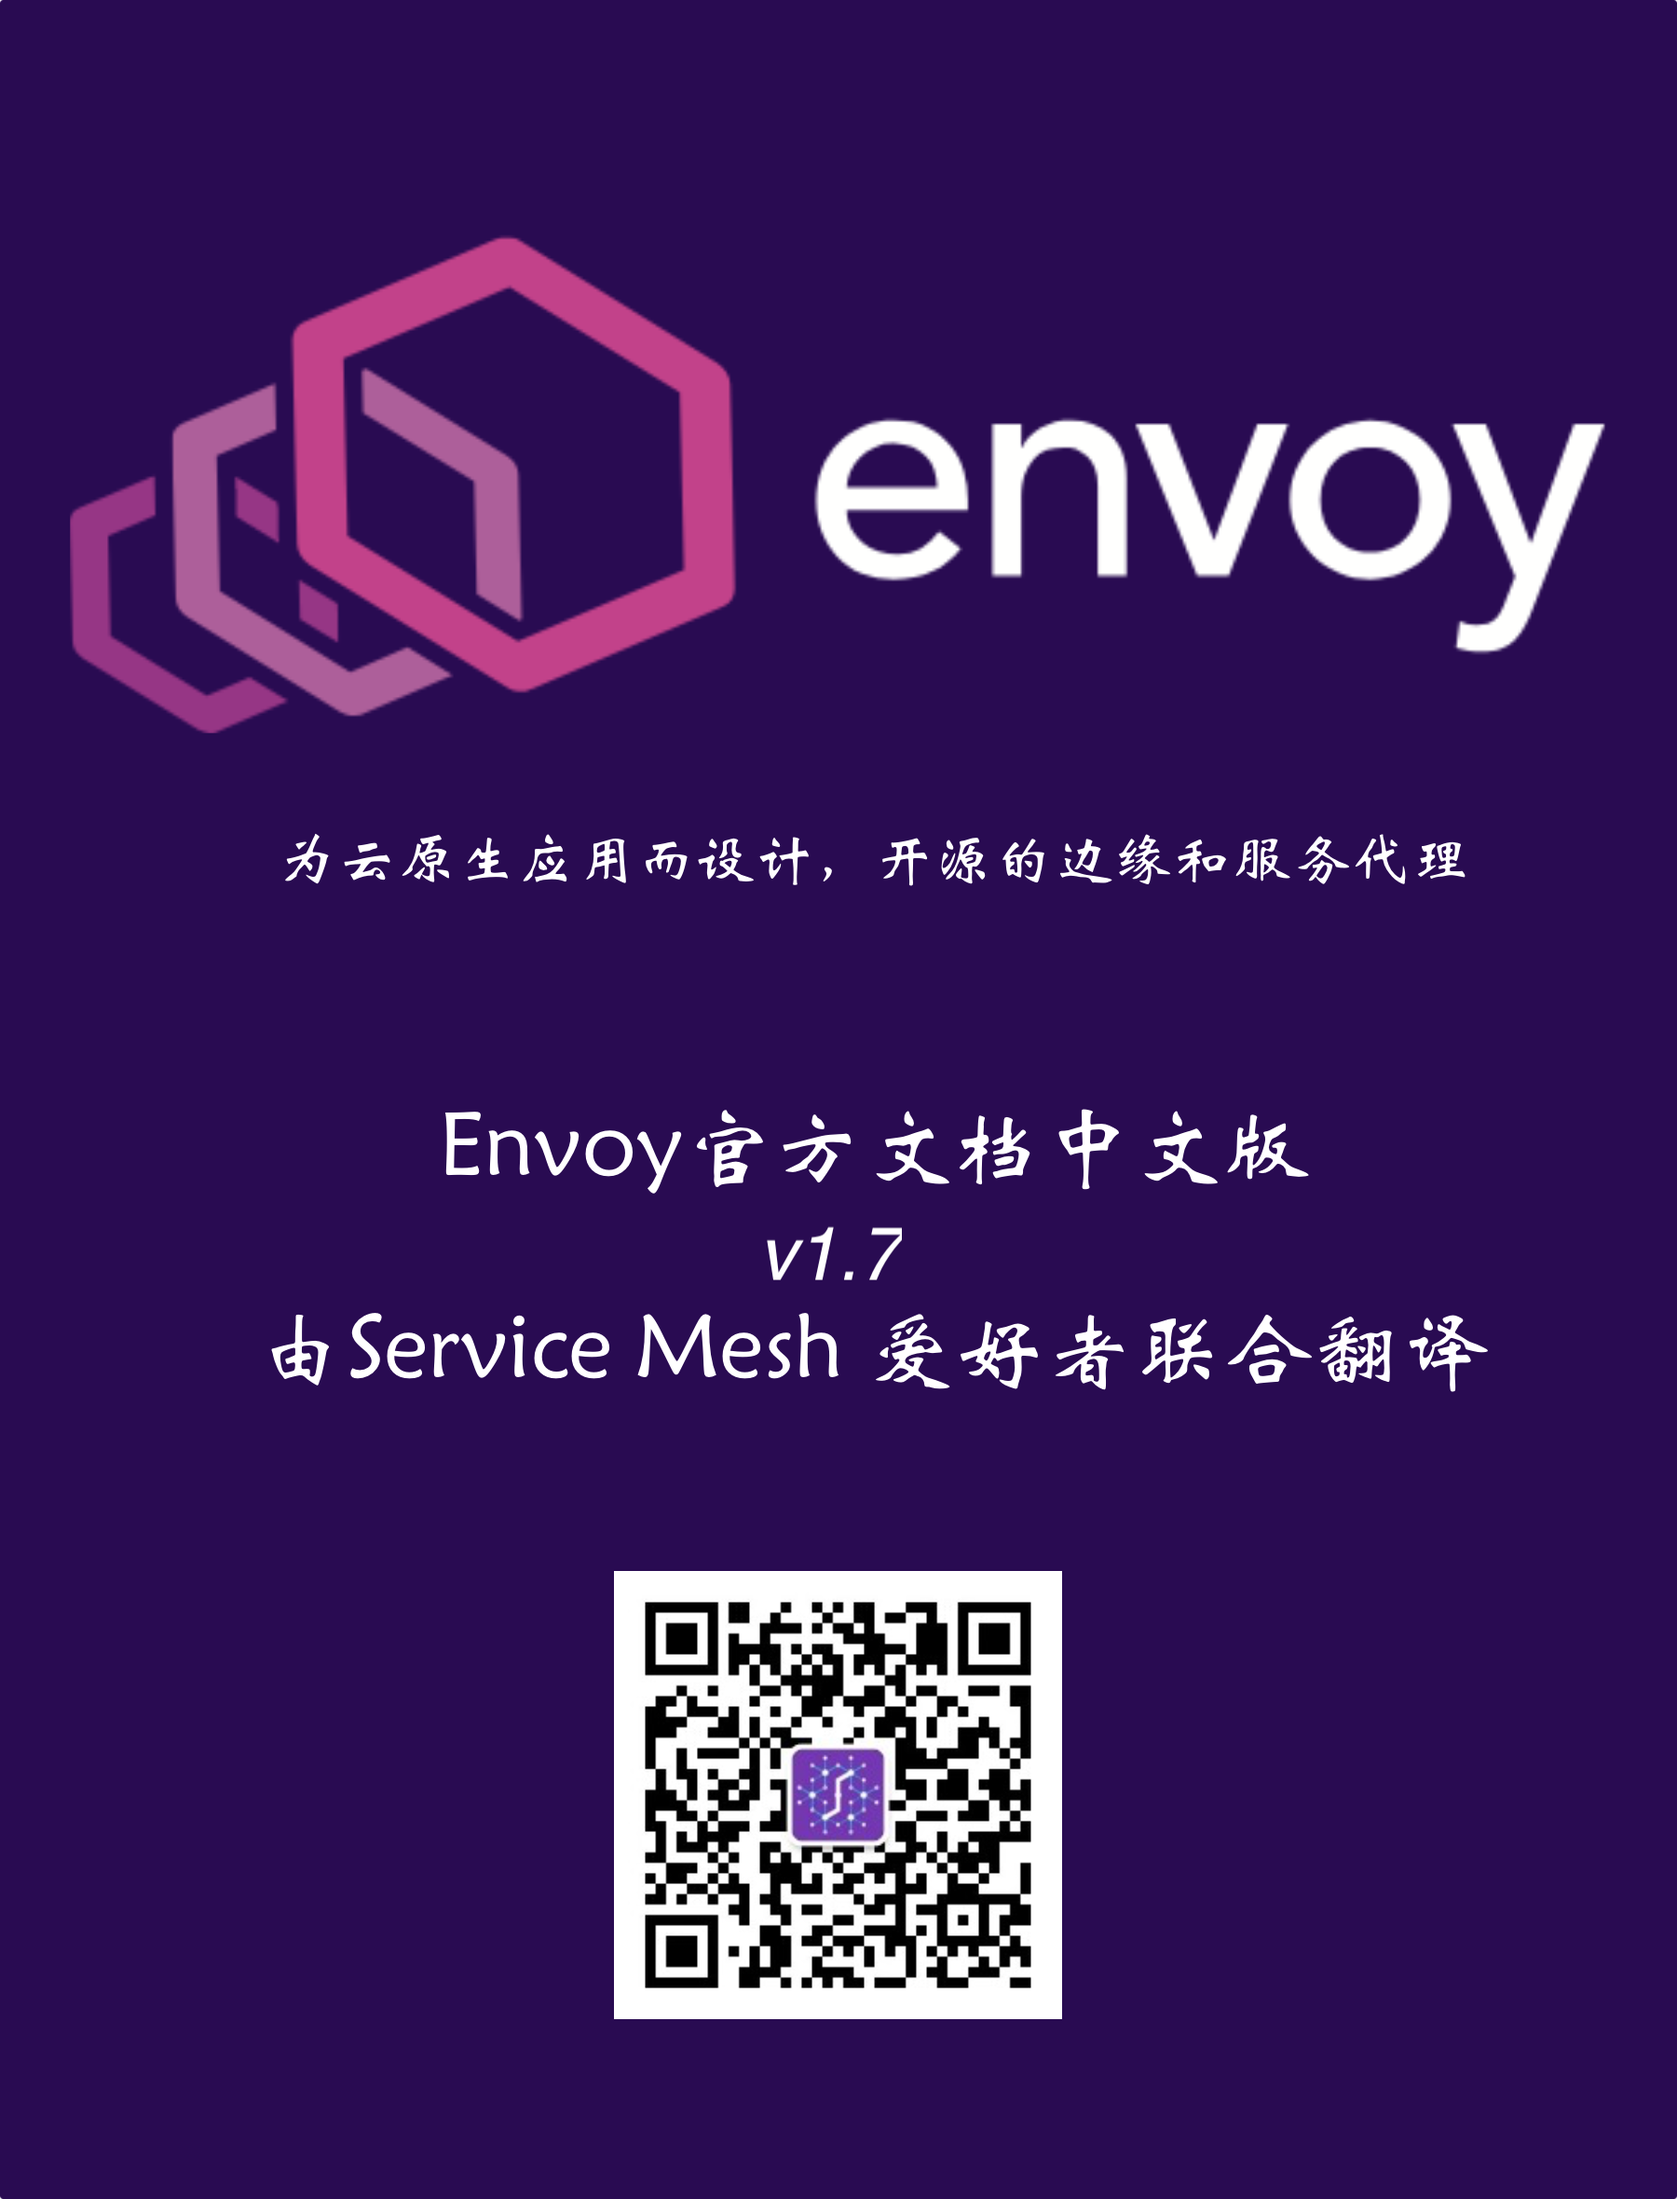
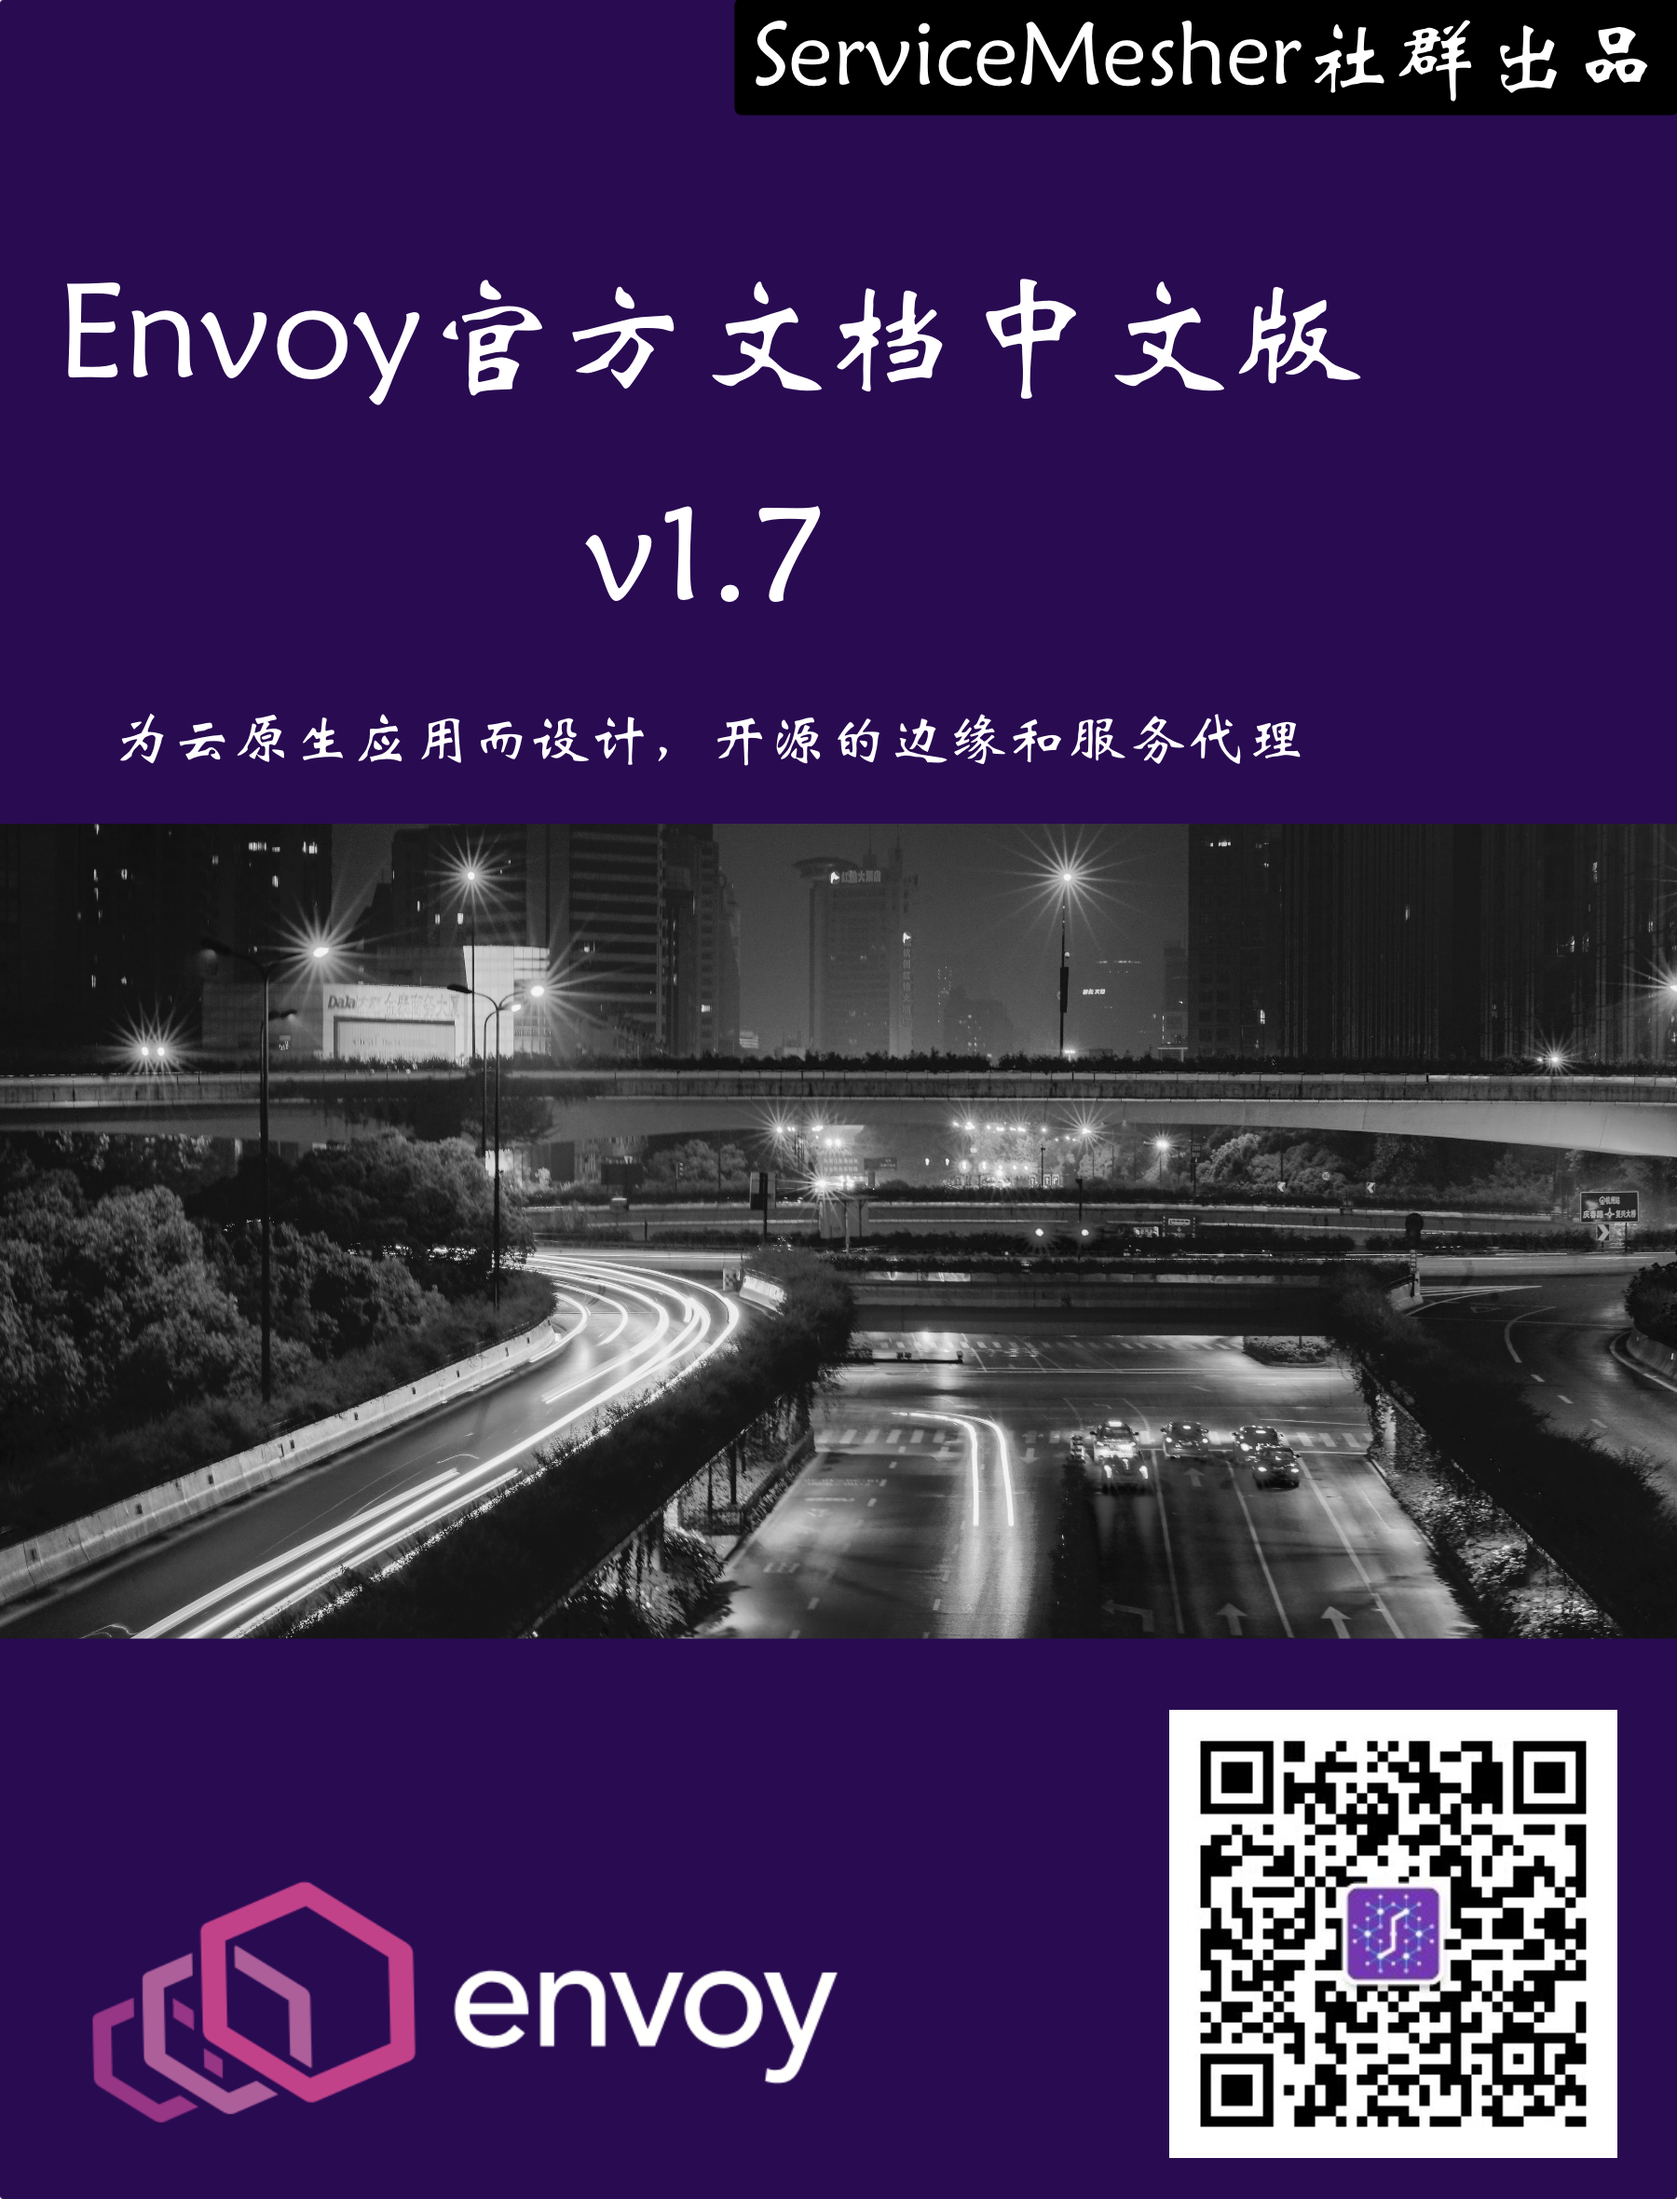
add gitbook cover

diff --git a/README.md b/README.md
@@ -22,6 +22,8 @@ Envoy 官方文档中文版，基于 Envoy 最新的 1.7 版本。
 
 [查看贡献者名单](https://github.com/servicemesher/envoy/graphs/contributors)
 
+封面图片：杭州中河路西湖大道立交桥 by [Jimmy Song](https://github.com/rootsongjc)
+
 ### 注意
 
 本书中**不包含**官方文档中的 **v1 API 参考** 和 **v2 API 参考** 部分，书中凡是指向 API 参考的链接都直接跳转到官方页面。
